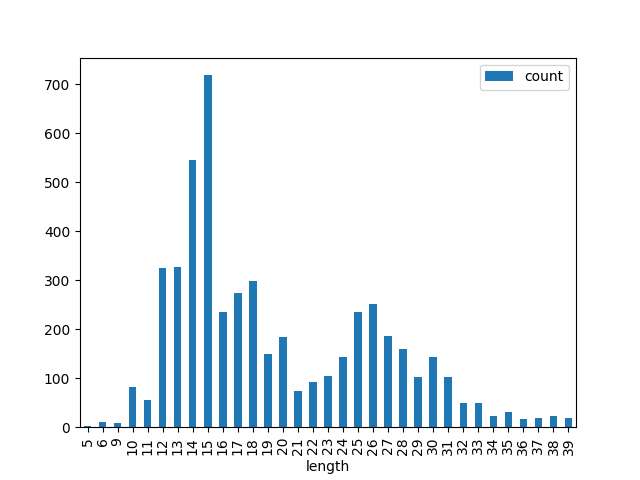
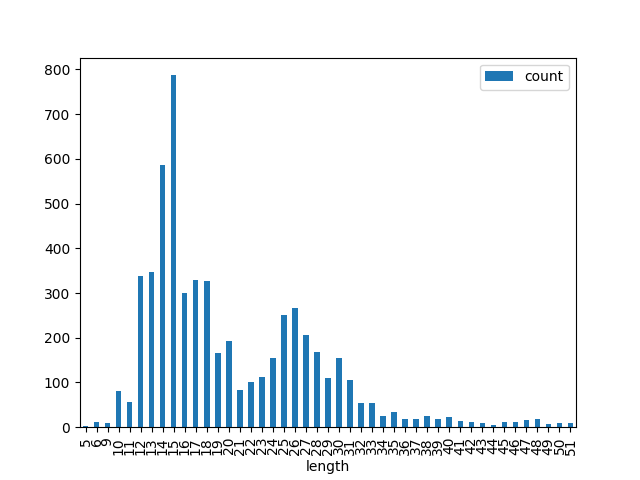
paper - feedback

diff --git a/paper/bachproef/standvanzaken.tex b/paper/bachproef/standvanzaken.tex
@@ -36,7 +36,7 @@ Finally some challenges remain such as group activity or unknown/unusual skills.
 
 \begin{table*}[]
     \begin{tabular}{lllllllll}
-        Year & World & Europe & Belgium & Usa   & Hungary & Germany & China \\
+        Year & World & Europe & Belgium & Usa   & Hungary & Germany & China \\ \hline
         1998 &       &        &         &       &         &         &       \\
         1999 & 80    &        & 80      &       &         &         &       \\
         2012 &       &        &         &       &         &         &       \\
@@ -55,7 +55,7 @@ Finally some challenges remain such as group activity or unknown/unusual skills.
 
 \begin{table*}[]
     \begin{tabular}{lllllllll}
-        Year & World & Europe & Belgium & Usa   & Hungary & Germany & China \\
+        Year & World & Europe & Belgium & Usa   & Hungary & Germany & China \\ \hline
         1998 & 83    &        &         &       & 83      &         &       \\
         1999 &       &        &         &       &         &         &       \\
         2012 &       &        & 102     &       &         &         &       \\
@@ -83,7 +83,7 @@ With the current rules, 11 judges, supervised by a head judge, are divided in tw
 Using two or more judge-panels, more freestyles can be evaluated at the same time. While one panel is watching a freestyle, the other can summarize and calculate the total score of the previous routine. Panels and routines are often arranged to judge the same category, e.g. juniors vs seniors, which decreases the effect of human differences between judges, such as how strict one is when evaluating, incorrect memorization of skill levels, fatigue, ...
 
 \subsection{Adapting the rules}
-In order to account for rising difficulty levels, variation, new skills, simplified judging, ... rule guidelines change. This can impact the way freestyles are evaluated, in ways of thinking, memorizing or calculating the level, score or deduction of a skill. One such example are the current rules for Double Dutch freestyles which uses 'snapshot' principle. Using this principle requires a lot of thinking during the routine, requiring the post-review, to correctly assign difficulty levels to skill-combinations. These rules where applied during the seasons 23'-24' and 24'-25' and will be changed again.
+In order to account for rising difficulty levels, variation, new skills, simplified judging, ... rule guidelines change. This can impact the way freestyles are evaluated, in ways of thinking, memorizing or calculating the level, score or deduction of a skill. One such example are the current rules for Double Dutch freestyles which uses 'snapshot' principle, which is a way of judging where you calculate a skill level right after a jumper has performed a skill, as if you take a picture. However, multiple rotations of the rope aren't 'visible' in a single imaginary image/snapshot. In other words, a snapshot is a small time interval incorporating multiple different aspects for a judge to take notice of. Using this principle requires a lot of thinking during the routine, requiring the post-review, to correctly assign difficulty levels to skill-combinations. These rules where applied during the seasons 23'-24' and 24'-25' and will be changed again.
 
 \subsection{Review at slower speed}
 In recent years, the video replay was introduced on high-level competitions \footnote{High-level competitions contain world championships or local finals (e.g. Belgium)} to review a double dutch freestyle at slower speed to accurately assign the performed skill-level.
@@ -146,7 +146,7 @@ The following examples illustrate how scores are assigned for DD3 routines. Leve
     \end{itemize}
 \end{itemize}
 
-While these summations may seem simple, the combination of not knowing what is performed next, while keeping an eye on three people, executing these skills in consecutively in about two thirds of a second makes it hard.
+While these additions may seem simple, the combination of not knowing what will performed next, while keeping an eye on three people executing skills sequentially in about two thirds of a second makes it hard.
 
 \section{Skill-matrix - complexity \& levels - towards model accuracy}
 \label{subsec:skillcomplexiteit}
@@ -207,7 +207,7 @@ On another note, \textcite{Guo_2017} explain that softmax isn't always a good in
         skill-matrix & finer hand movements & larger actions compared to SR \\ \hline
         individuals & 1 & 3 \\ \hline
     \end{tabular}
-    \caption[Collected videos data comparison]{Data comparison between singel rope freestyles and double dutch single freestyles. The number of freestyles is an estimation of the available and potential extra recordings possible on competitions during the research process.}
+    \caption[Collected videos data comparison]{Data comparison between single rope freestyles and double dutch single freestyles. The number of freestyles is an estimation of the available and potential extra recordings possible on competitions during the research process.}
     \label{tbl:data-comparison-sr-dd}
 \end{table*}
 

diff --git a/paper/bachproef/results.tex b/paper/bachproef/results.tex
@@ -277,7 +277,7 @@ These predicted segments are the first usable split moments to use for splitting
 \begin{figure}
     \centering
     \includegraphics[width=0.95\linewidth]{img/skilllengths}
-    \caption[frame counts of skill lengths]{Distribution of skill length (in frames), limited to 40 frames. Skill lengths differ depending on the frame rate of the video. Longer sequences than 40 frames include transitions, or mistake recoveries, typically occurring once or up to 3 times}
+    \caption[frame counts of skill lengths]{Distribution of skill length (in frames), visually limited to 50 frames per skill. Skill lengths differ depending on the frame rate of the video. Most videos have a framerate of 25, 30 or 50. Annotated sections longer than 50 frames are mostly transitions, mistake recoveries, gymnastic typed skills or powerskills with more than one rotation.}
     \label{fig:skilllengths-counts}
 \end{figure}
 

diff --git a/paper/bachproef/inleiding.tex b/paper/bachproef/inleiding.tex
@@ -66,7 +66,7 @@ Judges do make mistakes, just like the machine learning models, but we do need a
 
 \subsubsection{How can the AI-judge as a hybrid model increasing judge quality of the judges?}
 \label{subsubsec:intro-question-hybrid-model-judge-quality}
-Can the AI-judge \footnote{The machine learning model predicting performed skills} be used to train new judges or brush up the knowledge of current judges? Meanwhile, can they verify the predicted labels by the model to use as new training data?
+Can the AI-judge \footnote{The machine learning model predicting performed skills} be used to train new judges or brush up the knowledge of current judges? Meanwhile, can they verify the labels predicted by the model in order to use them as new training data?
 
 \subsubsection{Which activity recognition examples can be used or altered as a base guidance?}
 \label{subsubsec:intro-question-earlier-research-guidance}
